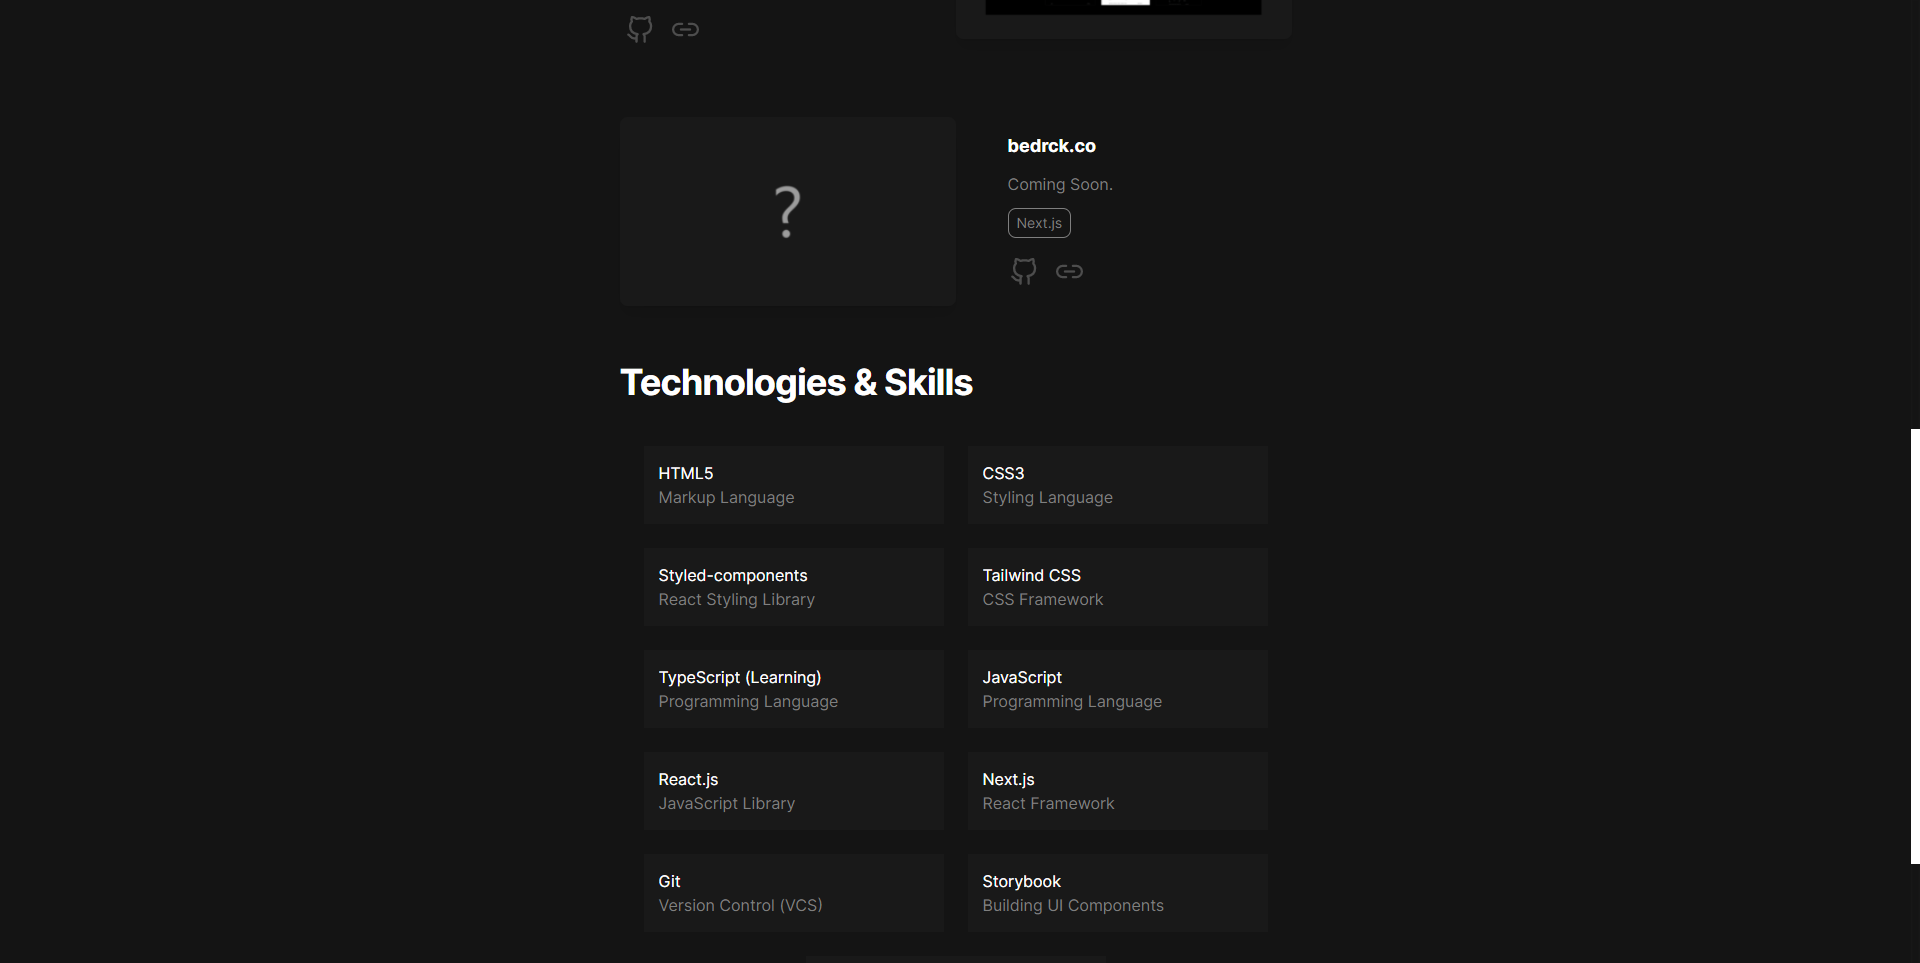
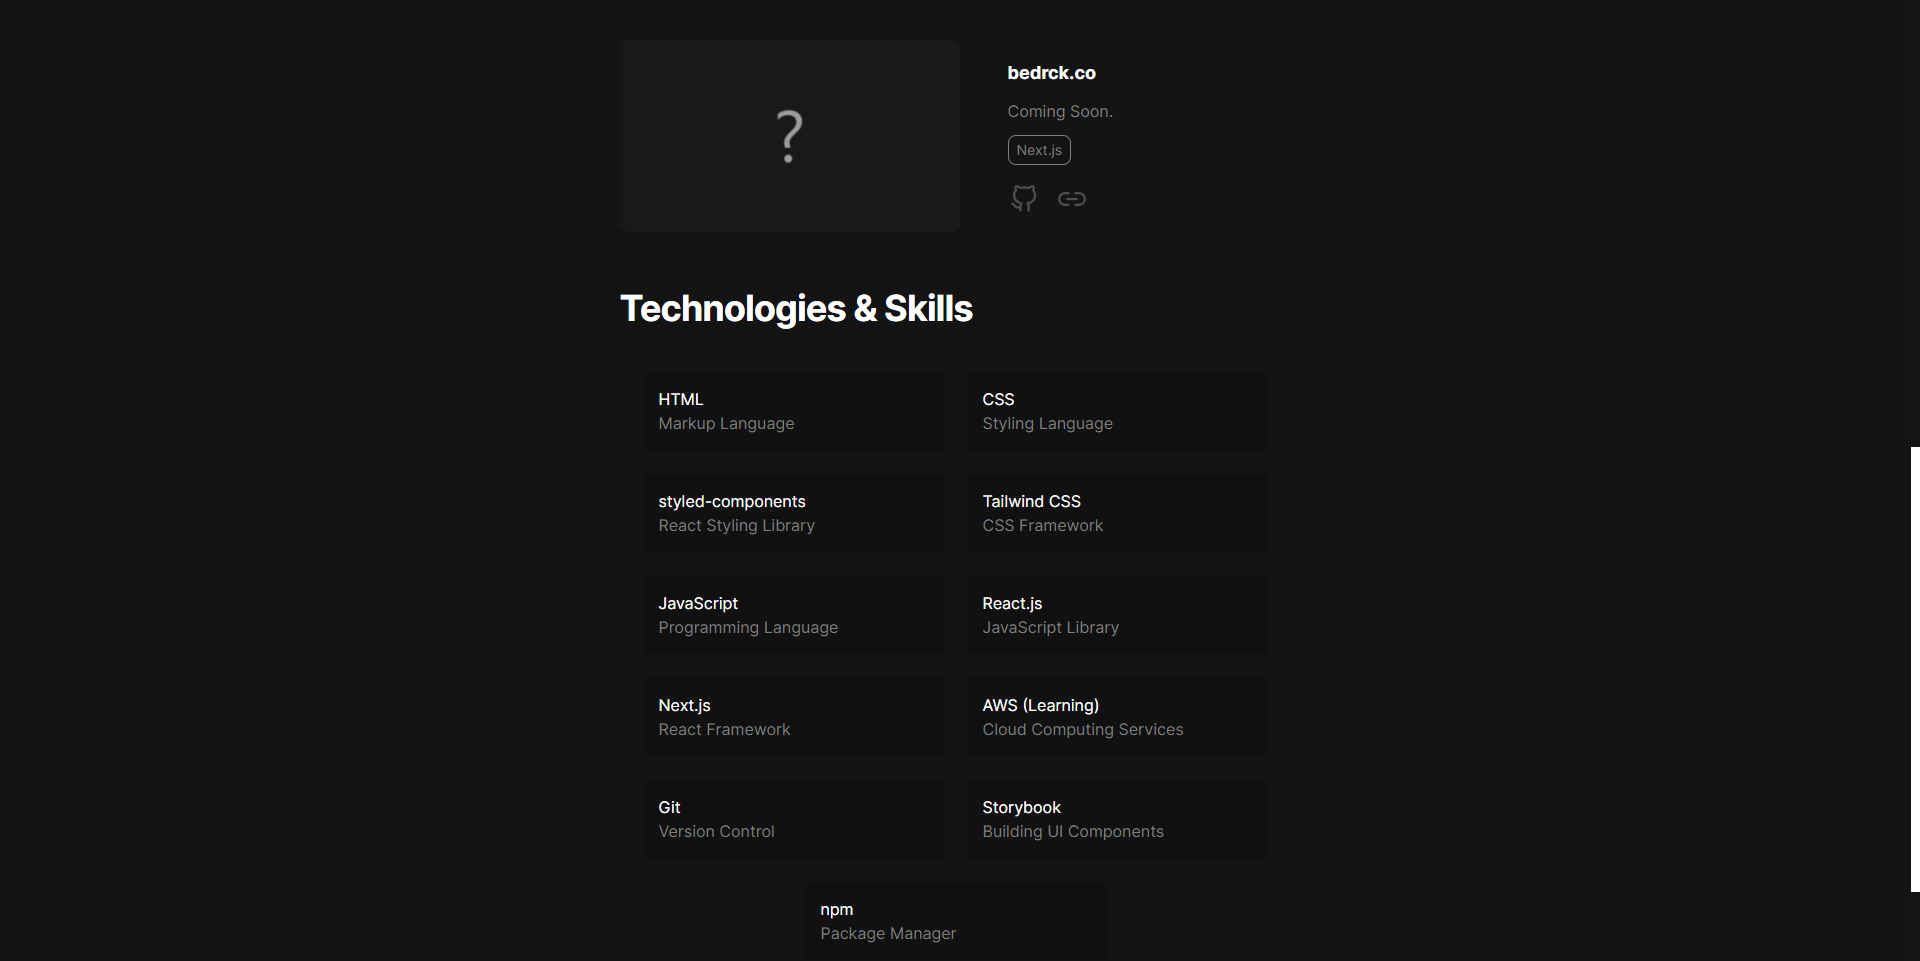
done(main page): changed intro design

diff --git a/pages/index.js b/pages/index.js
@@ -1,10 +1,9 @@
 import Head from "next/head";
-import Container from "@/components/Container";
-import Skills from "@/components/Skills/Skills";
-import Projects from "@/components/Projects/Projects";
+import Container from "@/components/Header";
 import { NextSeo } from "next-seo";
 import LayoutGA from "@/components/LayoutGA";
 import Footer from "@/components/Footer";
+import HomePage from "@/components/Home/HomePage";
 
 export default function Home() {
   return (
@@ -20,33 +19,7 @@ export default function Home() {
             title="Jack Latimer - Home"
             description="Frontend Developer Based In Liverpool, England"
           />
-          <div className="flex flex-col items-start max-w-2xl mx-auto mb-16">
-            <div className="justify-center mx-auto">
-              <h1 className="text-white mb-4 text-3xl font-bold tracking-tight md:text-5xl">
-                Hey! I'm Jack <span className="emoji-wave">👋</span>
-              </h1>
-            </div>
-            <div className="text-gray-400 flex justify-center mx-auto mb-4 space-x-4 font-semibold">
-              Frontend Developer
-            </div>
-            <h2 className="text-gray-400 mx-auto mb-2 text-lg font-semibold text-center">
-              Junior Frontend Developer who also likes design. Based in Liverpool, UK.
-            </h2>
-            <h2 className="text-gray-400 mx-auto mb-2 font-semibold text-center">
-              · · ·
-            </h2>
-            <h2 className="text-gray-400 mx-auto mb-24 text-lg font-semibold text-center">
-              Reach me via email at{" "}
-              <a
-                href="mailto:jacklatimer03@gmail.com"
-                className="text-gray-400 underline"
-              >
-                jacklatimer03@gmail.com
-              </a>
-            </h2>
-            <Projects />
-            <Skills />
-          </div>
+          <HomePage />
         </div>
       </Container>
       <Footer />

diff --git a/components/Home/HomePage.js b/components/Home/HomePage.js
@@ -1,0 +1,47 @@
+import Skills from "@/components/Skills/Skills";
+import Projects from "@/components/Projects/Projects";
+
+export default function HomePage() {
+  return (
+    <>
+      <div className="flex flex-col items-start max-w-2xl mx-auto mb-16">
+        <div className="justify-center mx-auto">
+          <h1 className="text-gray-400 mb-4 text-3xl font-bold tracking-tight md:text-5xl">
+            Hey! I'm Jack <span className="emoji-wave">👋</span>
+          </h1>
+        </div>
+        <div className="text-gray-400 flex justify-center mx-auto mb-4 space-x-4 font-semibold">
+          <div className="mr-2">Frontend Developer</div>
+          <a
+            class="eth-52"
+            href="https://etherscan.io/address/0x73D7ab52820288538895A74e834355b6f451DB5D"
+            rel="noreferrer"
+            target="_blank"
+          >
+            <div class="eth-58">
+              <div class="eth-64">0x73D7</div>
+            </div>
+          </a>
+        </div>
+        <h2 className="text-gray-400 mx-auto mb-2 text-lg font-semibold text-center">
+          Junior Frontend Developer who also likes design. Based in Liverpool,
+          England
+        </h2>
+        <h2 className="text-gray-400 mx-auto mb-2 font-semibold text-center">
+          · · ·
+        </h2>
+        <h2 className="text-gray-400 mx-auto mb-16 text-lg font-semibold text-center">
+          Reach me via email at{" "}
+          <a
+            href="mailto:jacklatimer03@gmail.com"
+            className="text-gray-400 underline"
+          >
+            jacklatimer03@gmail.com
+          </a>
+        </h2>
+        <Projects />
+        <Skills />
+      </div>
+    </>
+  );
+}

diff --git a/styles/globals.css b/styles/globals.css
@@ -86,3 +86,72 @@ body::-webkit-scrollbar-thumb {
     transform: rotate(0deg);
   }
 }
+
+.eth-52 {
+  box-sizing: border-box;
+  margin: 0;
+  min-width: 0;
+  -webkit-text-decoration: none;
+  text-decoration: none;
+  color: inherit;
+  display: block;
+  -webkit-align-self: center;
+  -ms-flex-item-align: center;
+  align-self: center;
+  -webkit-flex-shrink: 0;
+  -ms-flex-negative: 0;
+  flex-shrink: 0;
+  margin-right: 0.5rem;
+}
+
+.eth-52 {
+  box-sizing: border-box;
+  margin: 0;
+  min-width: 0;
+  background-color: #1b1b1b;
+  color: #666666;
+  cursor: pointer;
+  border-radius: 999px;
+  font-size: 0.875rem;
+  font-weight: 500;
+  line-height: 1;
+  display: -webkit-box;
+  display: -webkit-flex;
+  display: -ms-flexbox;
+  display: flex;
+  white-space: nowrap;
+  -webkit-align-items: center;
+  -webkit-box-align: center;
+  -ms-flex-align: center;
+  align-items: center;
+  overflow: hidden;
+  height: 1.5rem;
+  -webkit-align-self: center;
+  -ms-flex-item-align: center;
+  align-self: center;
+  -webkit-flex-shrink: 0;
+  -ms-flex-negative: 0;
+  flex-shrink: 0;
+  text-align: center;
+  -webkit-transition: 125ms ease-in-out color,
+    125ms ease-in-out background-color;
+  transition: 125ms ease-in-out color, 125ms ease-in-out background-color;
+}
+
+.eth-52:hover {
+  background-color: #2c2c2c;
+  color: #b7b7b7;
+}
+
+.eth-64 {
+  padding-left: 0.5rem;
+  padding-right: 0.5rem;
+  display: -webkit-box;
+  display: -webkit-flex;
+  display: -ms-flexbox;
+  display: flex;
+  -webkit-align-items: center;
+  -webkit-box-align: center;
+  -ms-flex-align: center;
+  align-items: center;
+}

diff --git a/components/Header.js b/components/Header.js
@@ -1,0 +1,37 @@
+import NextLink from "next/link";
+import Image from "next/image";
+
+export default function Container({ children }) {
+  return (
+    <>
+      <header>
+        <nav className="z-0 text-gray-400 flex items-center justify-between w-full max-w-4xl p-8 mx-auto my-0 sticky-nav md-auto">
+          <div className="p-1 sm:p-4">
+            <a href="/">
+              <svg
+                width="24"
+                height="24"
+                viewBox="0 0 24 24"
+                xmlns="http://www.w3.org/2000/svg"
+              >
+                <rect width="24" height="24" fill="#d0d0d0"></rect>
+              </svg>
+            </a>
+          </div>
+          <div>
+            <NextLink href="/">
+              <a className="p-1 sm:p-4 pr-4">Home</a>
+            </NextLink>
+            <NextLink href="/projects">
+              <a className="p-1 sm:p-4 pr-4">Projects</a>
+            </NextLink>
+            <NextLink href="https://jacklatimer.design/">
+              <a className="p-1 sm:p-4">Design</a>
+            </NextLink>
+          </div>
+        </nav>
+      </header>
+      <main className="flex flex-col justify-center px-8">{children}</main>
+    </>
+  );
+}

diff --git a/components/Skills/SkillsList.js b/components/Skills/SkillsList.js
@@ -1,23 +1,19 @@
 export const skills = [
   {
     category: "Markup Language",
-    name: "HTML5",
+    name: "HTML",
   },
   {
     category: "Styling Language",
-    name: "CSS3",
+    name: "CSS",
   },
   {
     category: "React Styling Library",
-    name: "Styled-components",
+    name: "styled-components",
   },
   {
     category: "CSS Framework",
     name: "Tailwind CSS",
-  },
-  {
-    category: "Programming Language",
-    name: "TypeScript (Learning)",
   },
   {
     category: "Programming Language",
@@ -32,7 +28,11 @@ export const skills = [
     name: "Next.js",
   },
   {
-    category: "Version Control (VCS)",
+    category: "Cloud Computing Services",
+    name: "AWS (Learning)",
+  },
+  {
+    category: "Version Control",
     name: "Git",
   },
   {

diff --git a/pages/404.js b/pages/404.js
@@ -2,7 +2,7 @@ import Link from "next/link";
 import { NextSeo } from "next-seo";
 import { useState, useEffect } from "react";
 import { useTheme } from "next-themes";
-import Header from "../components/Container";
+import Header from "../components/Header";
 import Footer from "@/components/Footer";
 
 export default function NotFound() {

diff --git a/pages/projects.js b/pages/projects.js
@@ -1,5 +1,5 @@
 import Head from "next/head";
-import Container from "@/components/Container";
+import Container from "@/components/Header";
 import { NextSeo } from "next-seo";
 import projects from "@/components/Projects/ProjectList";
 import LayoutGA from "@/components/LayoutGA";

diff --git a/components/Skills/Skills.js b/components/Skills/Skills.js
@@ -1,6 +1,6 @@
 import React from "react";
 import Grid from "@material-ui/core/Grid";
-import { skills } from "./List";
+import { skills } from "./SkillsList";
 
 function Skills() {
   return (
